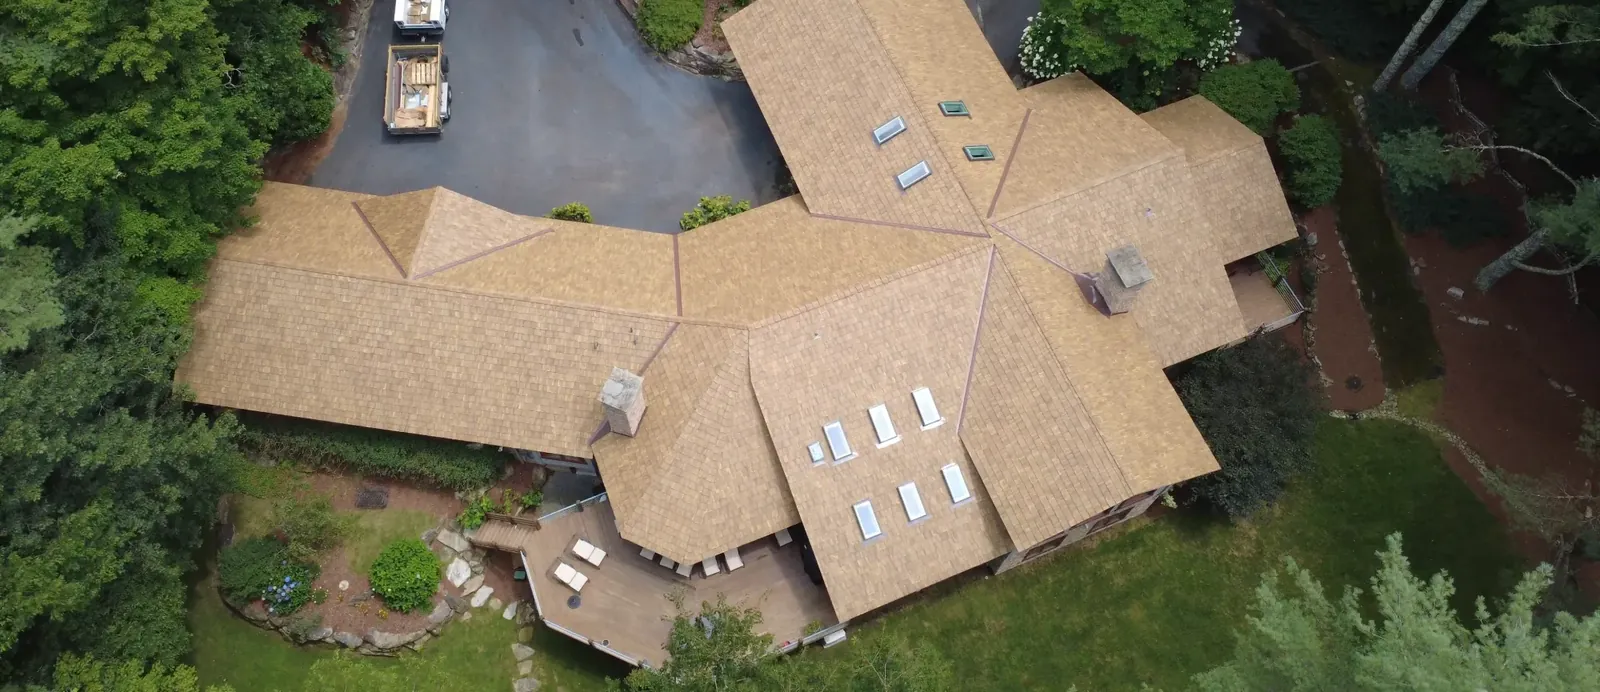
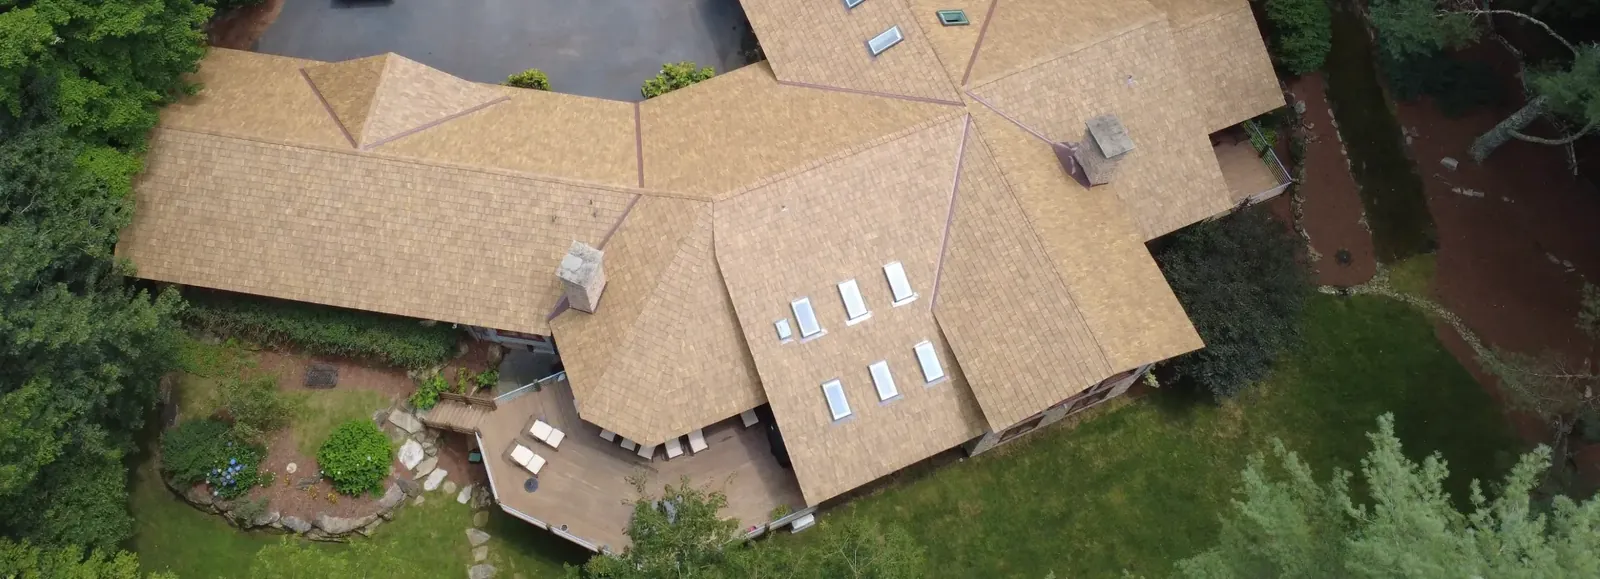
Add Franklin living room addition project and per-project hero focal points
Adds job 26-00035 as a construction case study, crops the Glenville aerial
to drop the work truck, and maps synthetic shake projects to the Brava page.

Claude-Session: https://claude.ai/code/session_013hCy3KezEz42ucwemBXWvb

diff --git a/src/data/projects.ts b/src/data/projects.ts
@@ -16,6 +16,8 @@ import bravaGlenvilleAerial from "@/assets/gallery/brava-glenville-aerial.webp";
 import bravaGlenvilleChimney from "@/assets/gallery/brava-glenville-chimney-valley.webp";
 import bravaGlenvilleBeforeRidge from "@/assets/gallery/brava-glenville-before-ridge.webp";
 import bravaGlenvilleBeforeHips from "@/assets/gallery/brava-glenville-before-hips.webp";
+import additionFranklinRoom from "@/assets/gallery/addition-franklin-vaulted-room.webp";
+import additionFranklinWindows from "@/assets/gallery/addition-franklin-gable-windows.webp";
 
 export interface ProjectDetail {
   slug: string;
@@ -23,6 +25,8 @@ export interface ProjectDetail {
   type: string;
   category: "roofing" | "construction";
   heroImage: string;
+  /** CSS object-position for the wide project hero, so the crop lands on the subject. */
+  heroPosition?: string;
   location: string;
   county: string;
   elevation?: string;
@@ -209,6 +213,7 @@ export const projectDetails: ProjectDetail[] = [
     type: "Synthetic Shake",
     category: "roofing",
     heroImage: bravaGlenvilleAerial,
+    heroPosition: "50% 50%",
     location: "Lake Glenville, NC",
     county: "Jackson County",
     elevation: "3,494 ft",
@@ -253,6 +258,50 @@ export const projectDetails: ProjectDetail[] = [
     seo: {
       title: "Brava Synthetic Shake Re-Roof in Glenville, NC | Highlander",
       description: "80+ square wood shake tear-off and Brava synthetic shake re-roof with 10 VELUX skylights near Lake Glenville, NC. See the full project story.",
+    },
+  },
+  {
+    slug: "living-room-addition-franklin",
+    title: "Living Room Addition: Vaulted Gable & Stone Fireplace",
+    type: "Home Addition",
+    category: "construction",
+    heroImage: additionFranklinRoom,
+    heroPosition: "50% 78%",
+    location: "Franklin, NC",
+    county: "Macon County",
+    elevation: "2,119 ft",
+    scope: "Engineered living room addition with a vaulted gable, stone chimney and fireplace",
+    duration: "Late February – August 2026",
+    highlight: "Engineered LVL gable, stone fireplace and a wall of mountain-view windows",
+    summary: "Franklin homeowners already working with Highlander on their interior wanted more room to enjoy their mountain views. Highlander replaced an old deck area with a new living room addition: a block foundation, an engineered vaulted gable, a floor-to-ceiling stone fireplace, and a wall of windows topped with custom gable glass.",
+    challenge: "The addition had to tie into an existing roof built on engineered trusses, an existing deck and a second-floor balcony. A structural engineer reviewed the roof system on site, and the new gable was framed to the engineer's plans with LVL beams.",
+    scopeOfWork: [
+      "Demolition of the old deck area and debris haul-off",
+      "Permitted CMU block foundation finished in stucco, with crawl space vents and a custom access door",
+      "Floor, walls and gable roof framed to a structural engineer's plans with LVL beams",
+      "New stone chimney and a floor-to-ceiling stone fireplace with firewood storage and built-in shelving",
+      "New windows and exterior door, with custom glass panes in the gable above the windows",
+      "Cedar shake and lap siding, soffit, fascia, shingles, black gutters and ridge ventilation",
+      "Insulation, knockdown-texture drywall, stained tongue-and-groove ceiling and a wrapped LVL beam",
+      "Original deck tied into the addition and the second-floor balcony railing rebuilt",
+    ],
+    materials: [
+      { name: "Engineered LVL Beams", detail: "Sized by a structural engineer for the vaulted gable" },
+      { name: "Stone Chimney & Fireplace", detail: "Stone on the roof end and floor-to-ceiling inside" },
+      { name: "Tongue-and-Groove Ceiling", detail: "Stained wood with a stained, wrapped beam through the vault" },
+      { name: "Cedar Shake & Lap Siding", detail: "Exterior finish with black gutters and downspouts" },
+    ],
+    processHighlights: [
+      "A structural engineer met on site and confirmed the existing roof system before framing",
+      "Permits pulled, and the insulation inspection passed",
+      "A cricket was built at the chimney before roofing",
+      "Final walkthrough, cleanup and photo documentation at completion",
+    ],
+    result: "The new room opens under a stained wood vault, with a stone fireplace at one end and tall windows and gable glass framing the mountain view at the other. Outside, cedar shake and lap siding, black gutters and a tied-in deck make the addition read as part of the original home.",
+    galleryImages: [additionFranklinRoom, additionFranklinWindows],
+    seo: {
+      title: "Living Room Addition in Franklin, NC | Highlander",
+      description: "Engineered living room addition in Franklin, NC with a vaulted gable, stone fireplace and mountain-view windows. See the full project story.",
     },
   },
 ];

diff --git a/src/lib/project-service-tags.ts b/src/lib/project-service-tags.ts
@@ -20,6 +20,7 @@ export function getProjectServiceTags(type: string, category: "roofing" | "const
     return tags;
   }
 
+  if (t.includes("synthetic") || t.includes("brava")) tags.push({ label: "Brava Synthetic Roofing", path: "/roofing/brava-synthetic" });
   if (t.includes("metal")) tags.push({ label: "Metal Roofing", path: "/roofing/metal" });
   if (t.includes("asphalt") || t.includes("shingle")) tags.push({ label: "Shingle Roofing", path: "/roofing/residential" });
   if (t.includes("cedar")) tags.push({ label: "Cedar & Specialty Roofing", path: "/roofing/residential" });

diff --git a/src/test/service-town-hero.test.ts b/src/test/service-town-hero.test.ts
@@ -25,7 +25,7 @@ describe("service × town hero resolution", () => {
   });
 
   it("uses the town image (WebP twin) with a no-town-claim alt when no project matches", () => {
-    const hero = resolveServiceTownHero(town("otto-nc"), "construction", "Construction");
+    const hero = resolveServiceTownHero(town("hayesville-nc"), "construction", "Construction");
     expect(["town-image", "regional-fallback"]).toContain(hero.source);
     expect(hero.alt).toBe(REGIONAL_HERO_ALT);
     expect(hero.src).toMatch(/\.webp$/);

diff --git a/src/pages/ProjectDetail.tsx b/src/pages/ProjectDetail.tsx
@@ -79,6 +79,7 @@ const ProjectDetailPage = () => {
               src={project.heroImage}
               alt={project.title}
               className="w-full h-full object-cover"
+              style={project.heroPosition ? { objectPosition: project.heroPosition } : undefined}
               initial={{ scale: 1.08 }}
               animate={{ scale: 1 }}
               transition={{ duration: 0.4, ease: HIGHLAND_EASE }}
